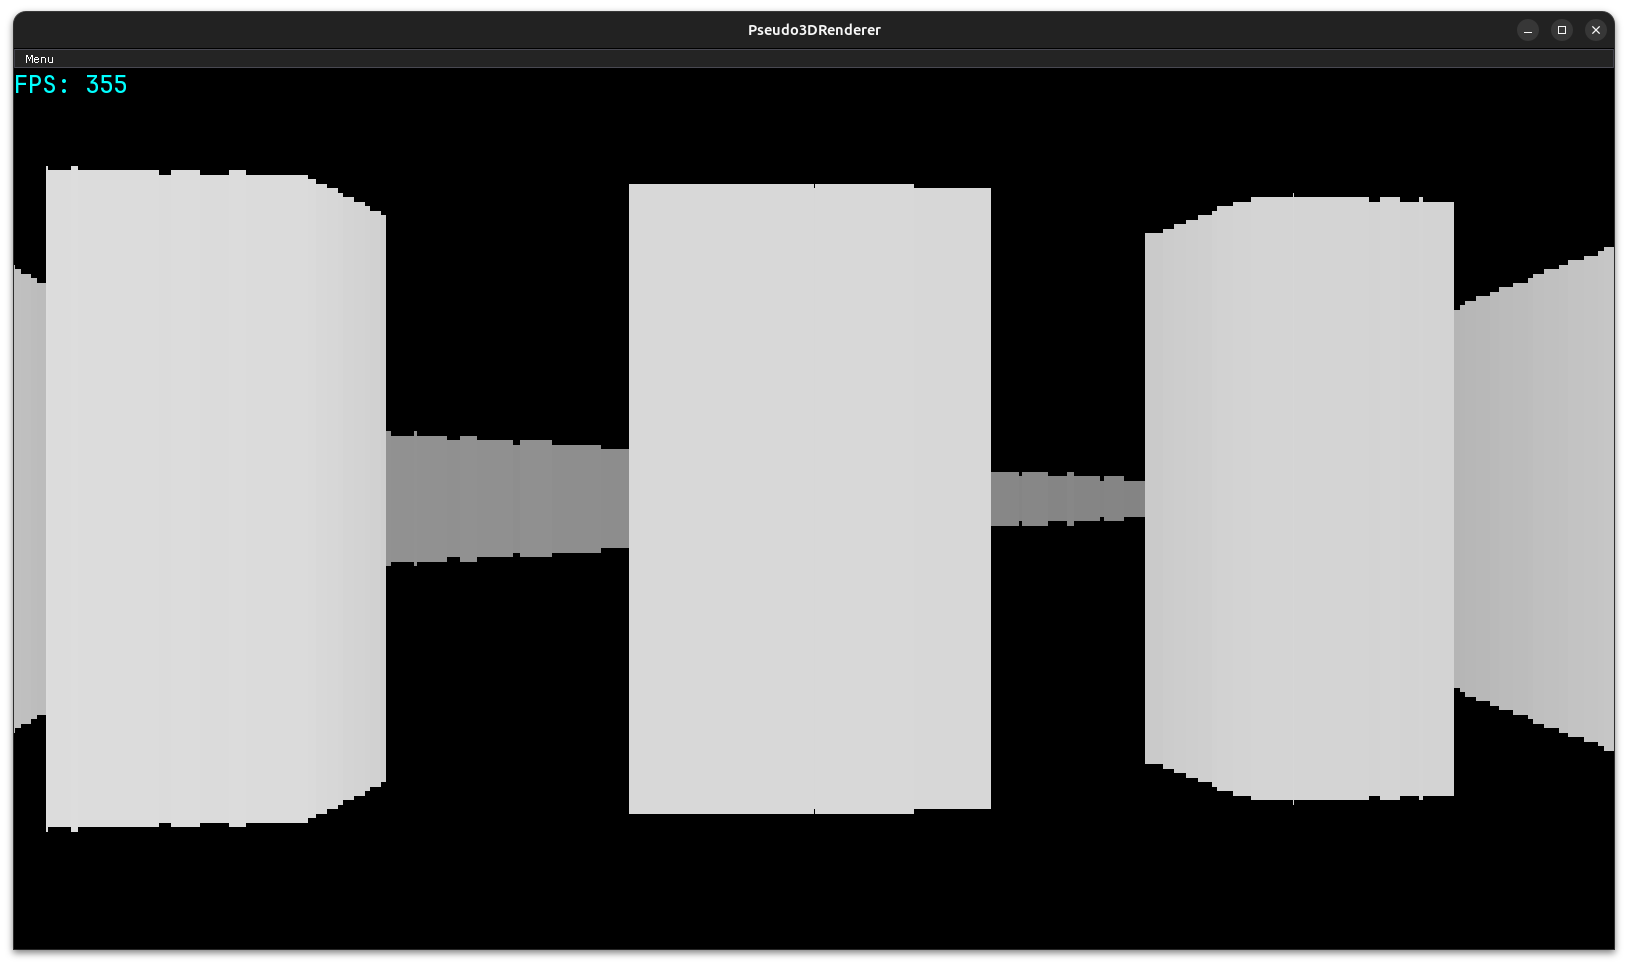
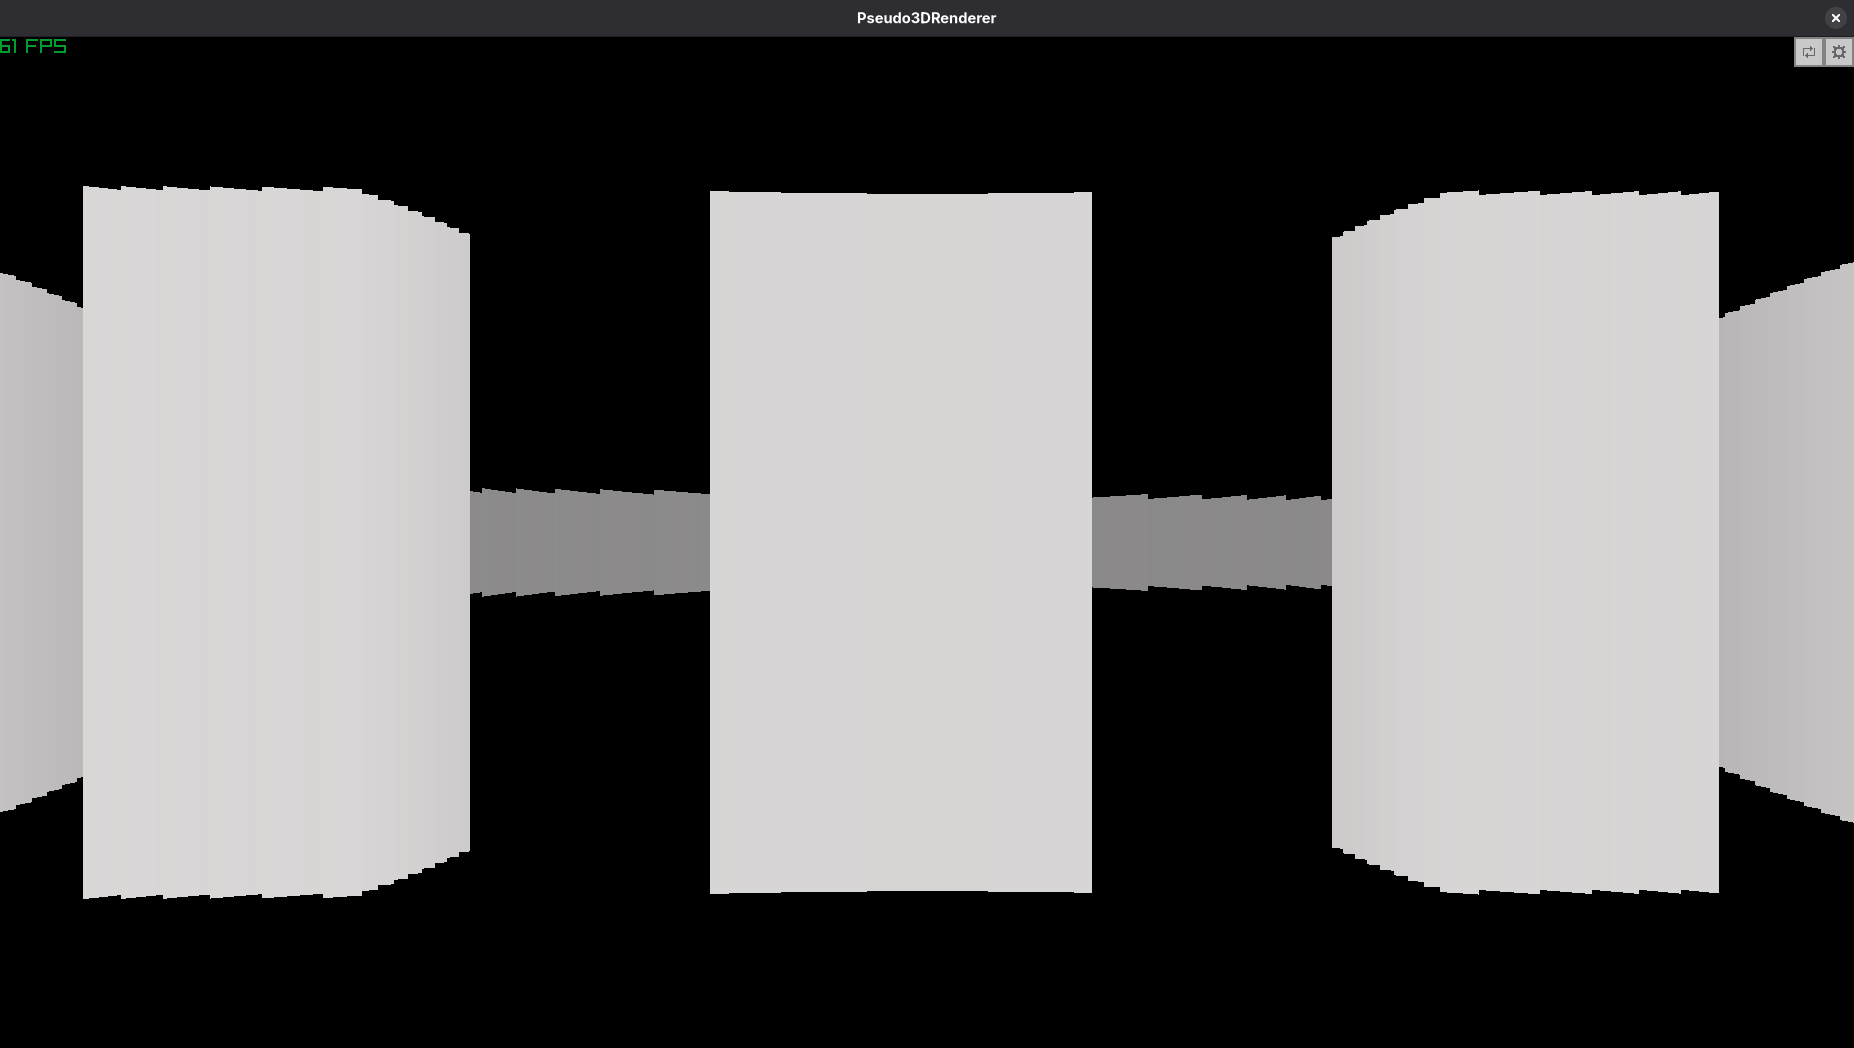
Update screenshots

Changed region(s): [[0.0, 0.0, 1.0, 1.0], [0.1843, 0.1863, 0.9521, 0.8696], [0.1536, 0.8385, 0.215, 0.8696]]

diff --git a/src/Game.cpp b/src/Game.cpp
@@ -90,6 +90,9 @@ void DrawFrame()
 
     ClearBackground(BLACK);
 
+    windowSize.x = GetRenderWidth();
+    windowSize.y = GetRenderHeight();
+
     ProcessPlayerInput();
 
     auto frame = GetFrame();
